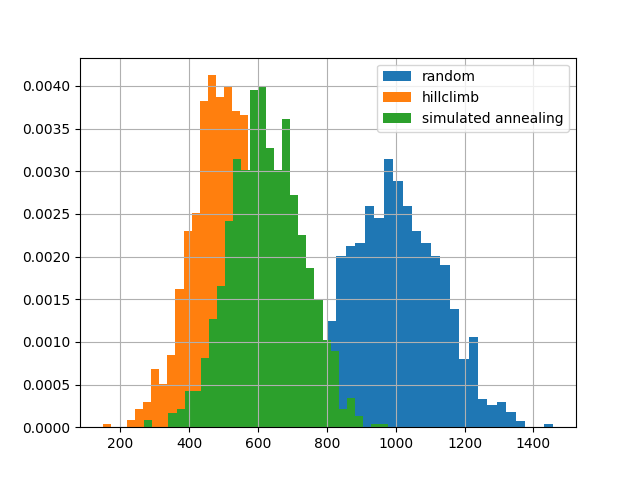
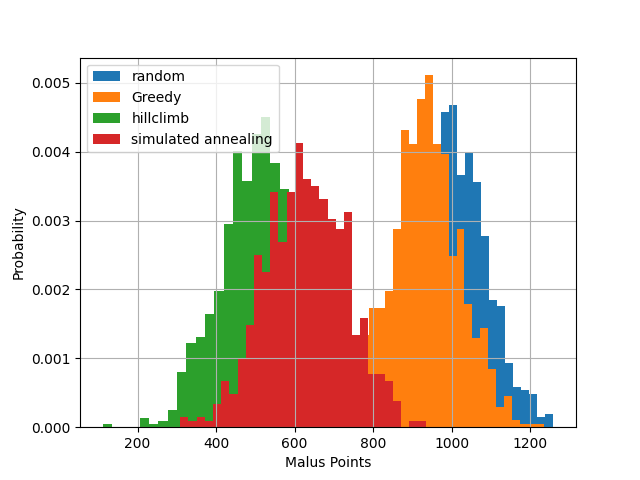
added figures

diff --git a/src/algorithm/sim_annealing.py b/src/algorithm/sim_annealing.py
@@ -39,14 +39,13 @@ def start_annealing(
     old_points = float("inf")
 
     threshold = 2000
+    iterations = 5000
 
     current_iteration = 0
 
-    # Continue hillclimbing untill no improvement is found in N steps
-    while same_value_count < threshold:
+    for i in range(iterations):
         new_points = simulated_annealing(
-            courses, room_time_slots, students, rooms, starting_temp, current_iteration
-        )
+            courses, room_time_slots, students, rooms, starting_temp, i, iterations)
 
         if old_points == new_points:
             same_value_count += 1
@@ -55,7 +54,21 @@ def start_annealing(
 
         old_points = new_points
         malus_points.append(new_points)
-        current_iteration += 1
+
+    # # Continue hillclimbing untill no improvement is found in N steps
+    # while same_value_count < threshold:
+    #     new_points = simulated_annealing(
+    #         courses, room_time_slots, students, rooms, starting_temp, current_iteration
+    #     )
+
+    #     if old_points == new_points:
+    #         same_value_count += 1
+    #     else:
+    #         same_value_count = 0
+
+    #     old_points = new_points
+    #     malus_points.append(new_points)
+    #     current_iteration += 1
 
     return malus_points
 
@@ -67,6 +80,7 @@ def simulated_annealing(
     rooms: list[Room],
     starting_temp: int,
     current_iteration: int,
+    iterations
 ) -> int:
     """
     simulated_annealing() works very similair to the restart hillclimber, however it has
@@ -106,7 +120,8 @@ def simulated_annealing(
 
     # Check if the new schedule is better, if worse, revert back
     if new_points > old_points:
-        temp = starting_temp * 0.9995**current_iteration
+        # temp = starting_temp * 0.9995**current_iteration
+        temp = starting_temp - (starting_temp/iterations) * current_iteration
         accept_chance = 2 ** ((old_points - new_points) / temp)
 
         if random.random() > accept_chance:

diff --git a/visualise.py b/visualise.py
@@ -9,10 +9,10 @@ anneal2 = pd.read_csv("output/random.csv", names=["index", "vals"])
 random = pd.read_csv("output/random.csv", names=["index", "vals"])
 
 plots = [
-    pd.read_csv("output/random.csv", names=["index", "vals"]),
-    # pd.read_csv("output/hillclimb_700.csv", names=["index", "vals"]),
+    # pd.read_csv("output/random.csv", names=["index", "vals"]),
+    pd.read_csv("output/random_1000.csv", names=["index", "vals"]),
+    pd.read_csv("output/greedy_1000.csv", names=["index", "vals"]),
     pd.read_csv("output/hillclimb_700_2.csv", names=["index", "vals"]),
-    # pd.read_csv("output/sim_anneal_500.csv", names=["index", "vals"]),
     pd.read_csv("output/sim_anneal_500_2.csv", names=["index", "vals"]),
     # pd.read_csv("output/random.csv", names=["index", "vals"]),
 ]
@@ -32,6 +32,8 @@ for data in plots:
     #     color="r",
     # )
 
-plt.legend(["random", "hillclimb", "simulated annealing"])
+plt.legend(["random", "Greedy", "hillclimb", "simulated annealing"])
+plt.xlabel("Malus Points")
+plt.ylabel("Probability")
 plt.grid(which="both")
 plt.savefig("aaaa.png")

diff --git a/main.py b/main.py
@@ -24,6 +24,7 @@ from src.algorithm.greedy import greedy_schedule_course
 
 import numpy as np
 import pandas as pd
+import matplotlib.pyplot as plt
 
 from tabulate import tabulate
 from copy import deepcopy
@@ -89,8 +90,16 @@ def main(output: str, alg_type: str, n_simulations: int):
 
     print(f"best timetable found: {best_points} malus points")
 
-    df = pd.DataFrame(data)
-    df.to_csv(output)
+    plt.plot(data)
+
+    plt.xlabel("Iterations")
+    plt.ylabel("Malus Points")
+    plt.grid(which="both")
+
+    plt.savefig(output)
+
+    # df = pd.DataFrame(data)
+    # df.to_csv(output)
 
     # df = pd.DataFrame(best_time_table)
     # df.columns = ["Student", "Course"]
@@ -177,7 +186,7 @@ def run_algorithm(algr, verbose=False):
             )
         elif algr == "simulated_annealing":
             malus_points_progress = start_annealing(
-                courses_sorted, available_rooms, students, rooms, 9
+                courses_sorted, available_rooms, students, rooms, 5.5
             )
 
     if not is_valid_schedule(students, rooms):
